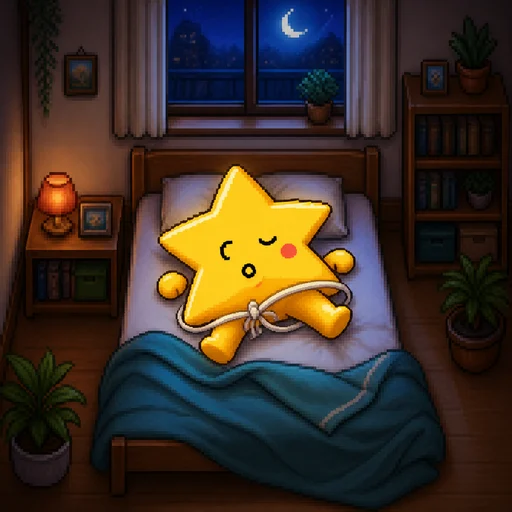
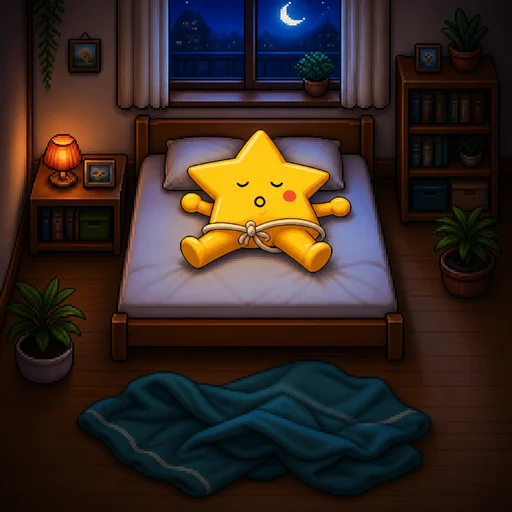
fix: 睡眠シーンの図鑑絵を描き分け

diff --git a/docs/prototype-spec.md b/docs/prototype-spec.md
@@ -58,6 +58,8 @@
 - 未発見シーンは、時間帯だけを残してタイトルを `？？？` と表示する
 - 図鑑はスマートフォン縦画面で2列表示し、全10シーンを縦スクロールで閲覧する
 - 各カードへシーン固有のドット絵イラストを使用し、未発見カードでは内容を判別できないよう暗くぼかす
+- `すやすや眠っている` は、エトキチの顔だけが見えるよう布団に入った寝姿で表現する
+- `布団を蹴飛ばしている` は、エトキチが掛け物なしで寝ており、布団がベッドから床へ落ちた寝姿で表現する
 - 初期プロトから保存している発見履歴をそのまま使用する
 
 ## 保存
